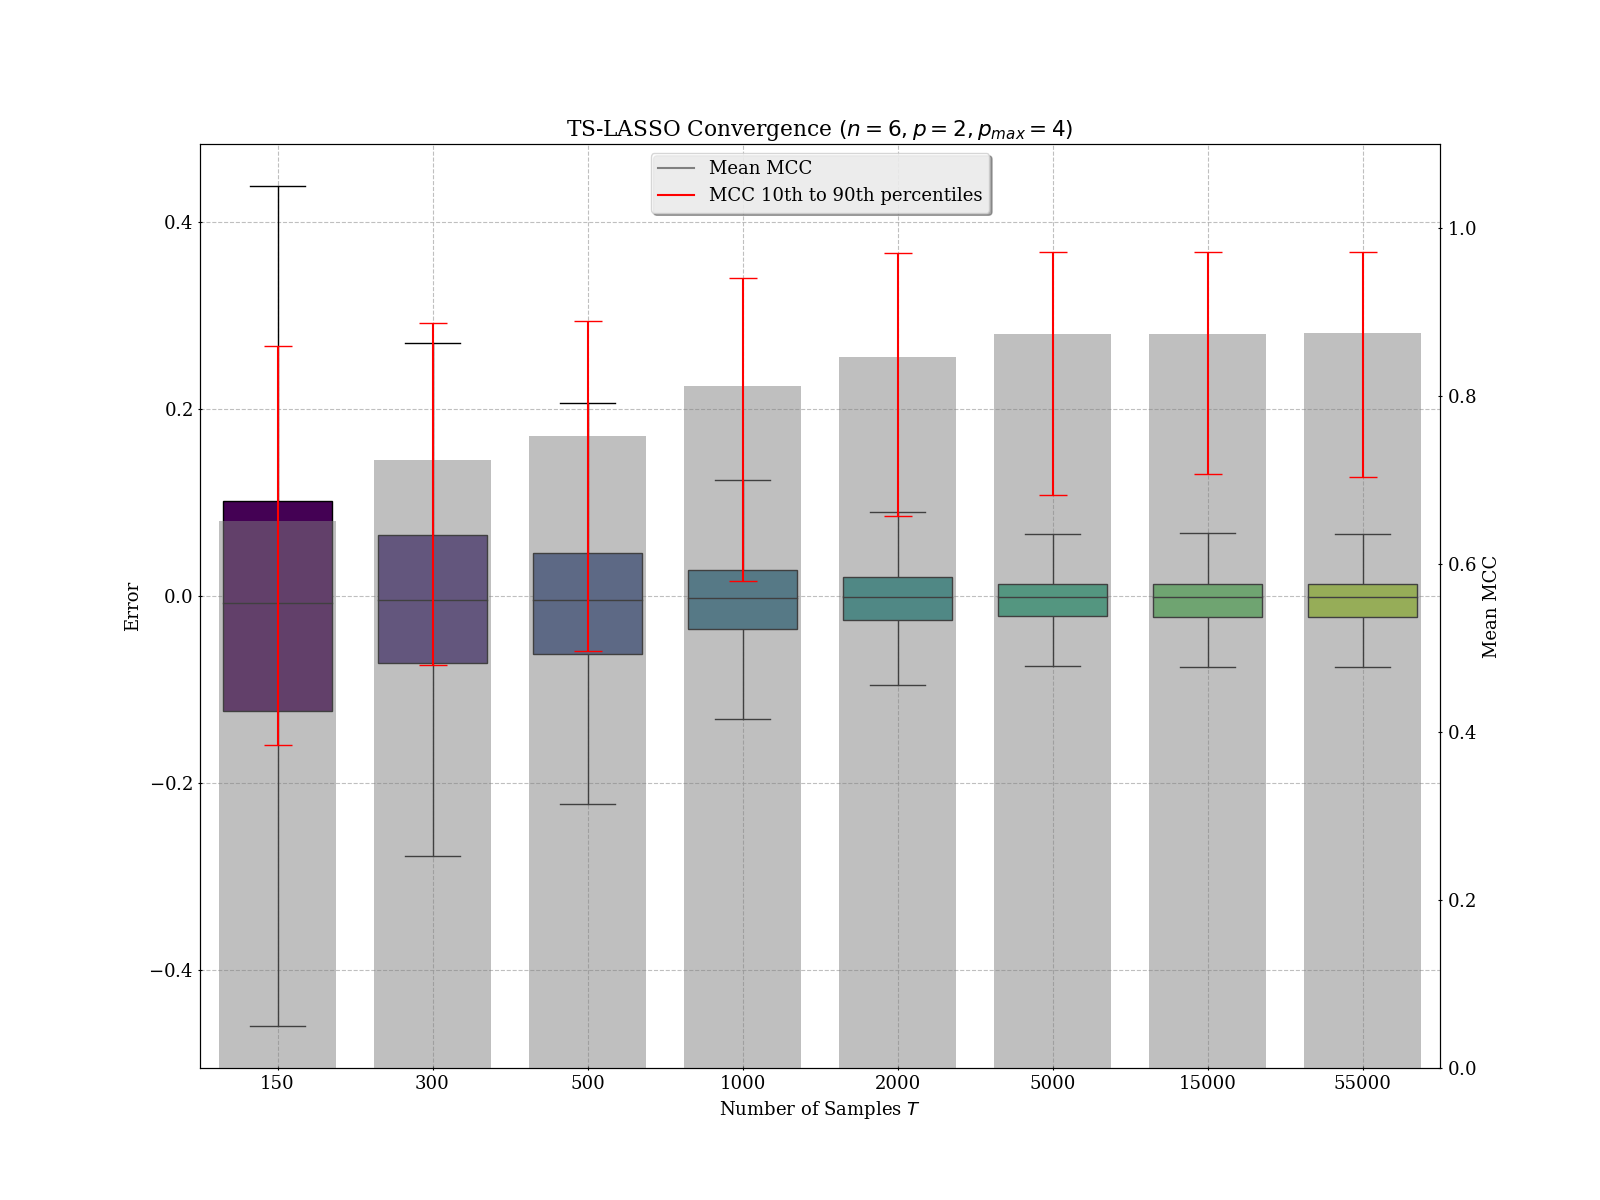
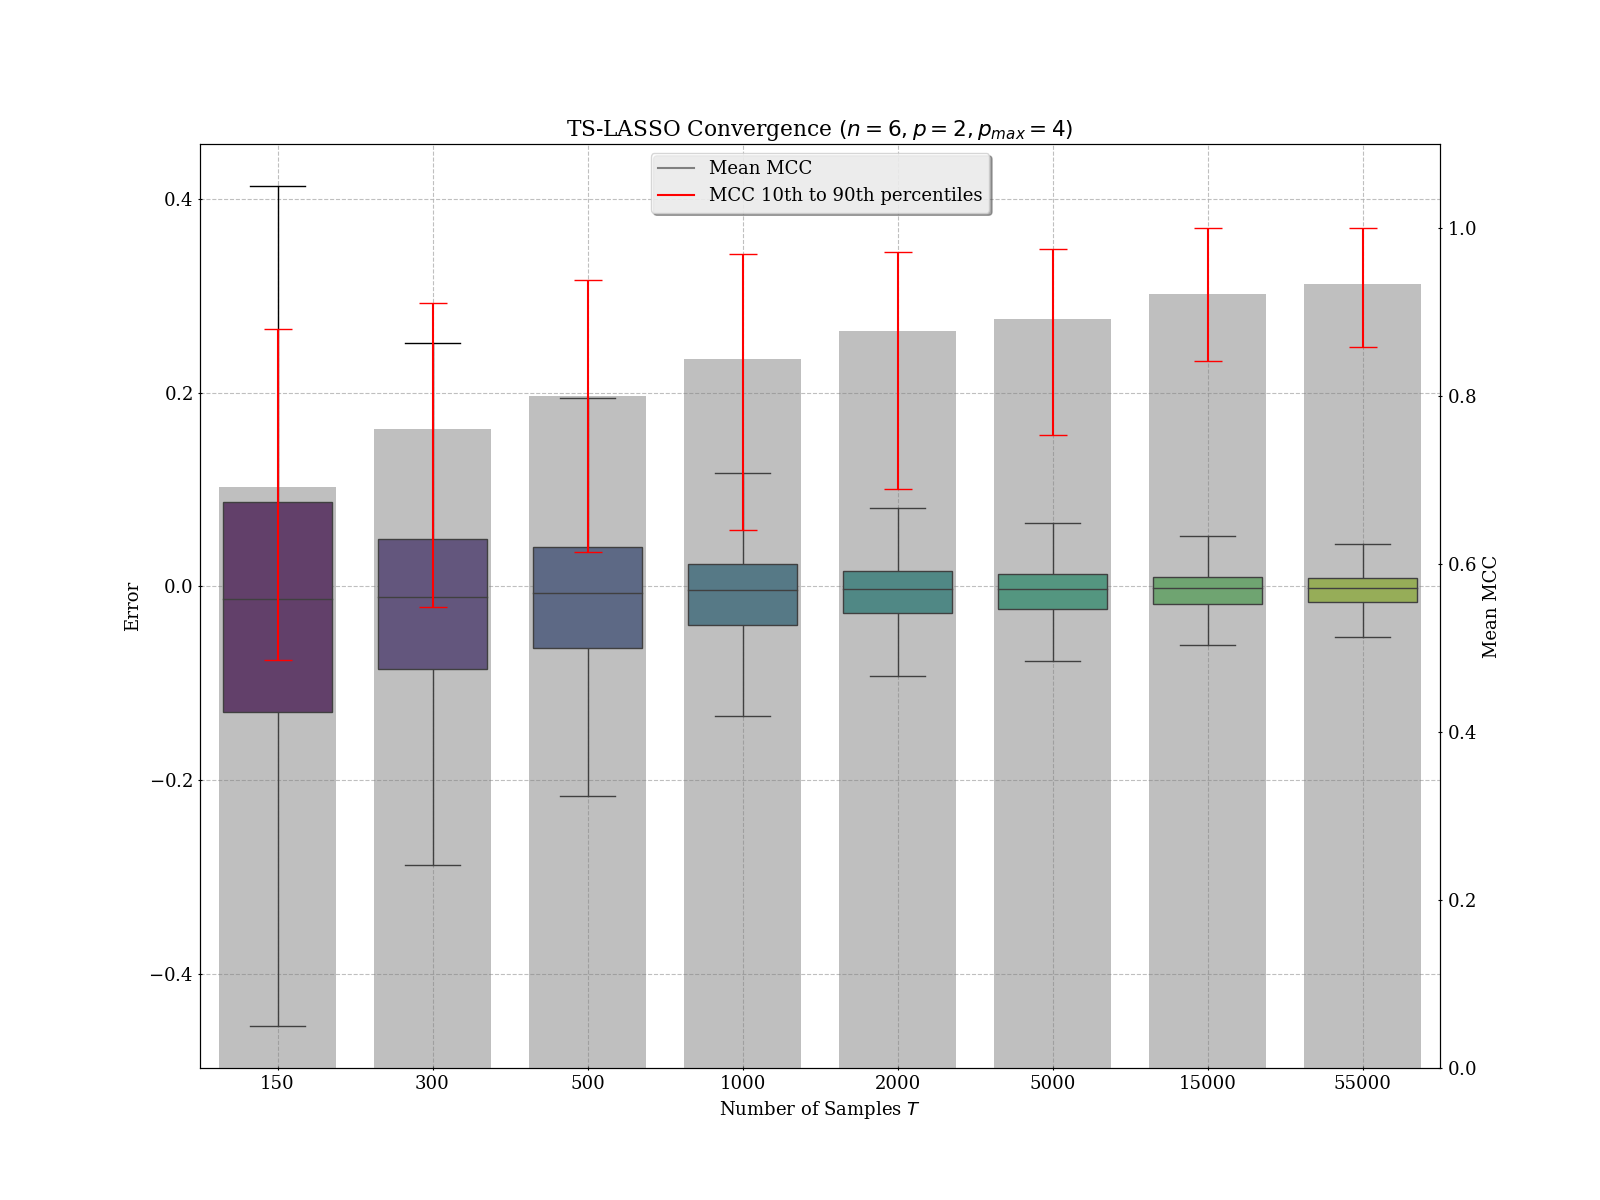
Fixed convergence example.

diff --git a/test/stat_convergence.py b/test/stat_convergence.py
@@ -15,12 +15,13 @@ from sklearn.metrics import matthews_corrcoef
 
 
 def cvg_example():
-    T_max = 5000
+    nu = 1.25
     n = 6
     p = 2
     p_max = 2 * p
     T_iters = [150, 300, 500, 1000, 2000,
                5000, 15000, 55000]
+    T_max = max(T_iters) + 1
     T_trials = len(T_iters)
     N_iters = 100
 
@@ -30,7 +31,7 @@ def cvg_example():
     for N_it in range(N_iters):
         X, B, G = generate_data(T_max, n=n, p=p, q=0.5)
         for T_it, T in enumerate(T_iters):
-            B_hat, _, _, _ = fit_VAR(X[:T, :], p_max=p_max)
+            B_hat, _, _, _ = fit_VAR(X[:T, :], p_max=p_max, nu=nu)
             p_hat = B_hat.shape[0]
             B_true = np.zeros_like(B_hat)
             B_true[:p, ...] = B
